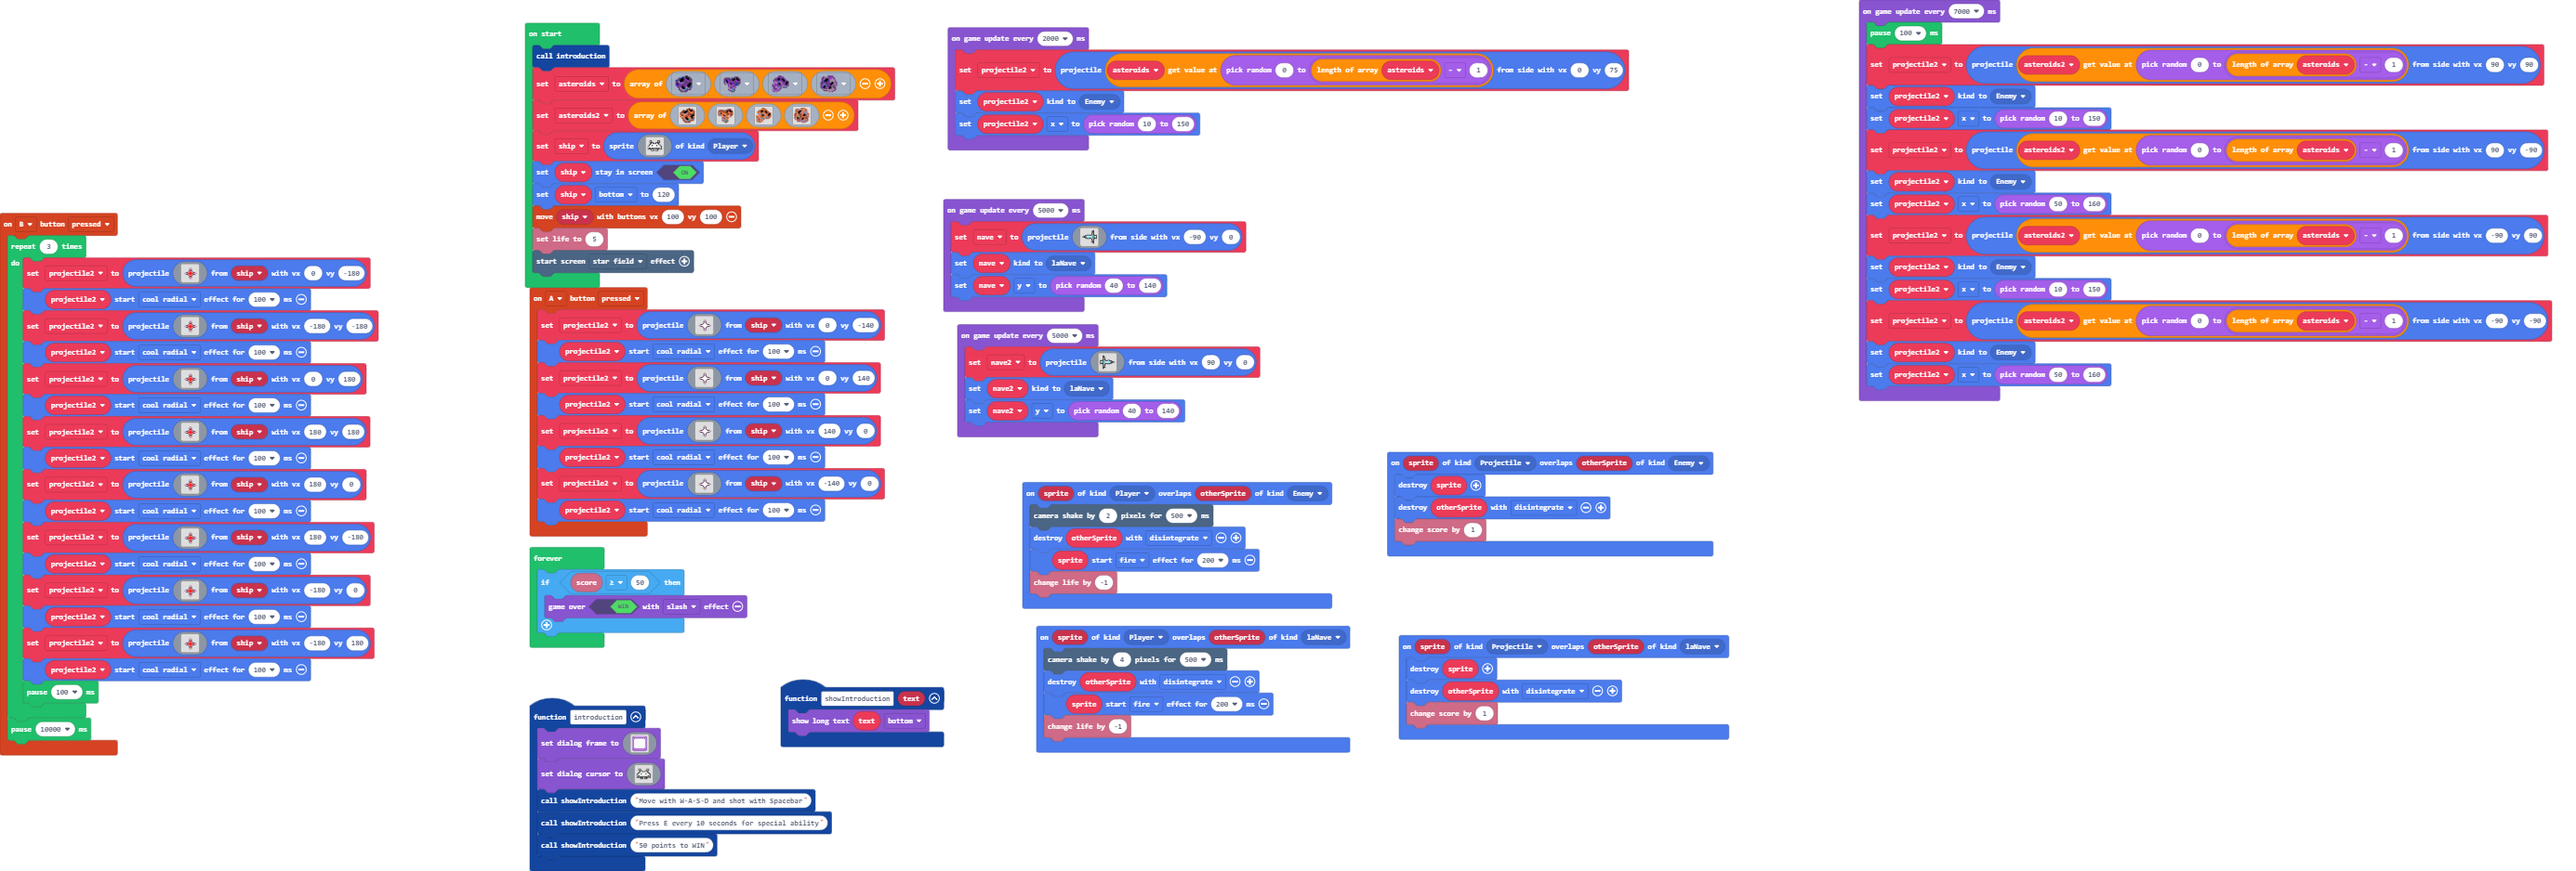
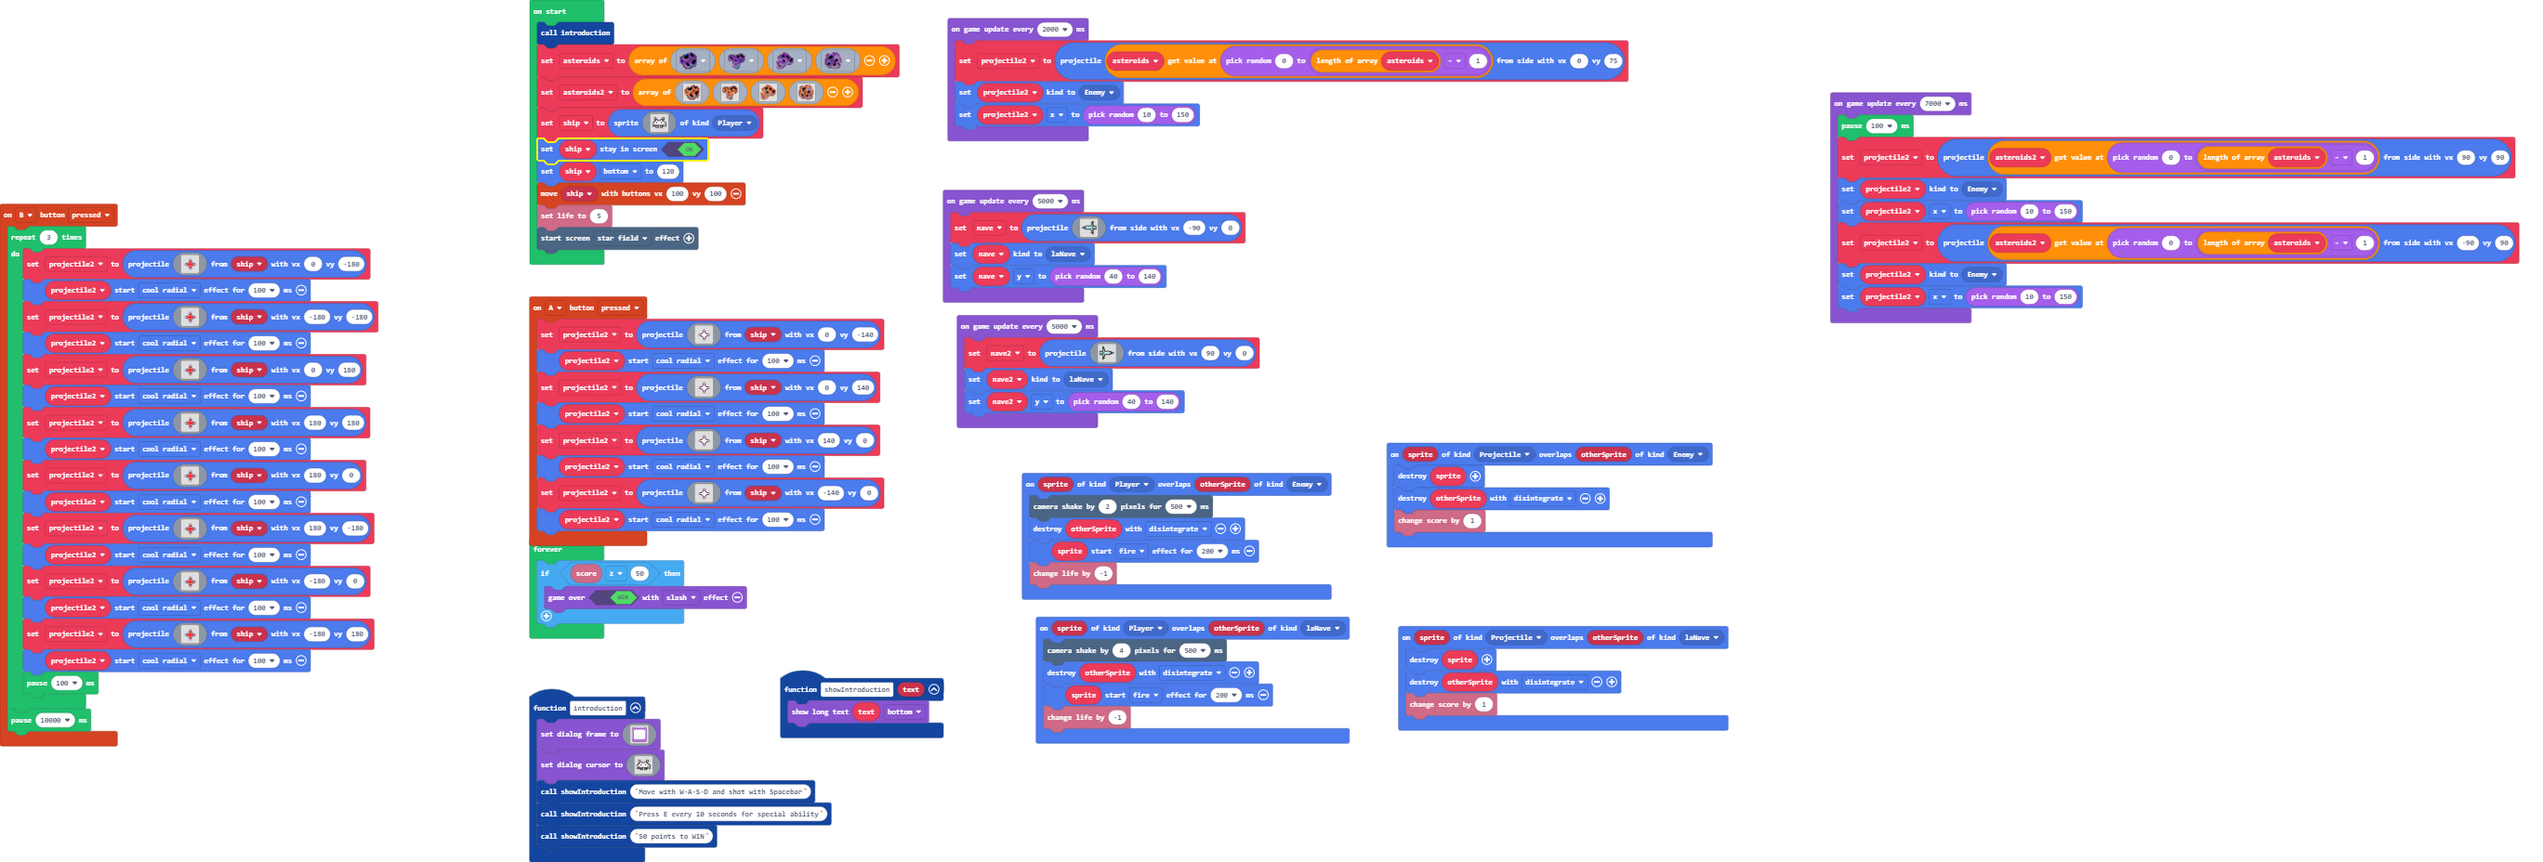
Update main.blocks, main.ts

diff --git a/main.ts b/main.ts
@@ -480,15 +480,9 @@ game.onUpdateInterval(7000, function () {
     projectile2 = sprites.createProjectileFromSide(asteroids2[randint(0, asteroids.length - 1)], 90, 90)
     projectile2.setKind(SpriteKind.Enemy)
     projectile2.x = randint(10, 150)
-    projectile2 = sprites.createProjectileFromSide(asteroids2[randint(0, asteroids.length - 1)], 90, -90)
-    projectile2.setKind(SpriteKind.Enemy)
-    projectile2.x = randint(50, 160)
     projectile2 = sprites.createProjectileFromSide(asteroids2[randint(0, asteroids.length - 1)], -90, 90)
     projectile2.setKind(SpriteKind.Enemy)
     projectile2.x = randint(10, 150)
-    projectile2 = sprites.createProjectileFromSide(asteroids2[randint(0, asteroids.length - 1)], -90, -90)
-    projectile2.setKind(SpriteKind.Enemy)
-    projectile2.x = randint(50, 160)
 })
 game.onUpdateInterval(2000, function () {
     projectile2 = sprites.createProjectileFromSide(asteroids[randint(0, asteroids.length - 1)], 0, 75)
